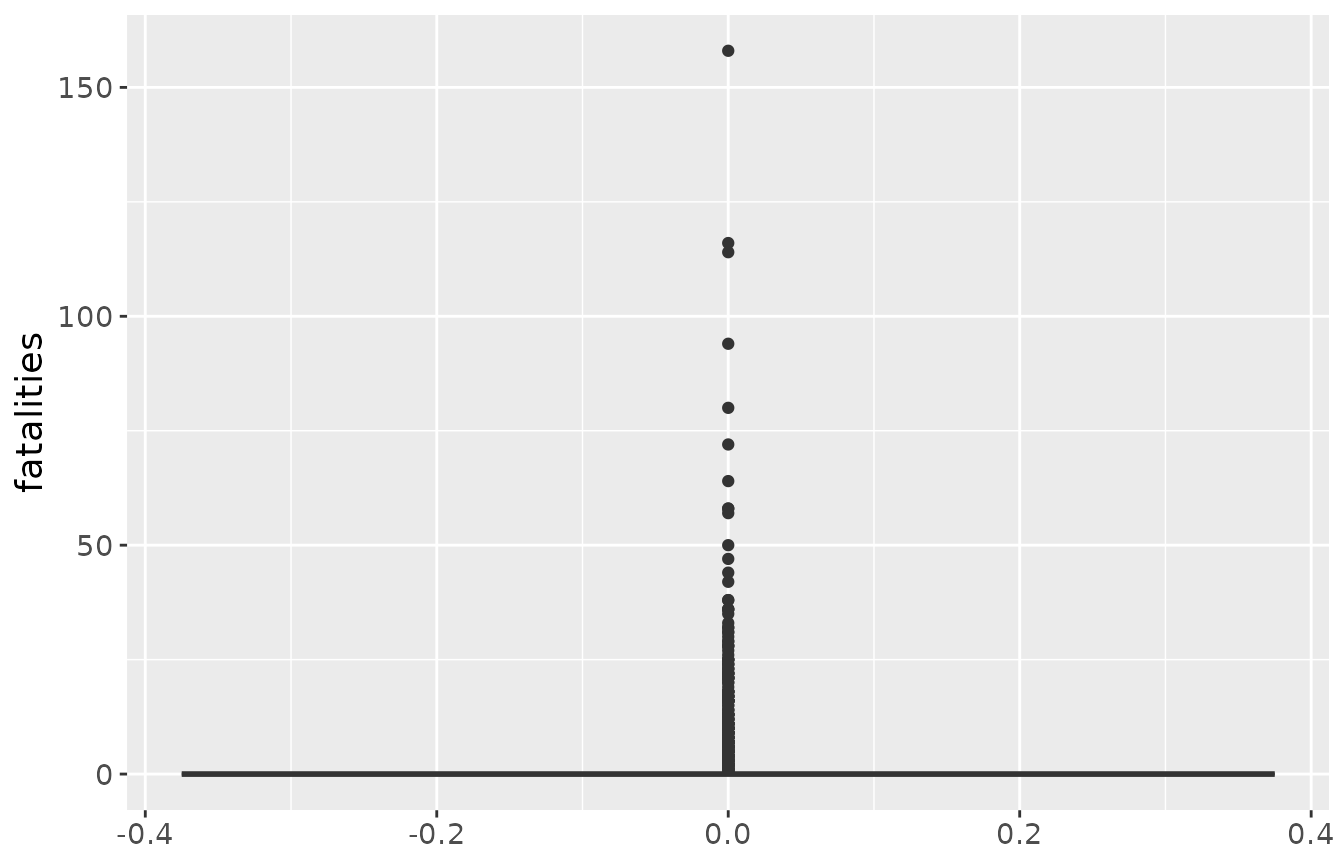
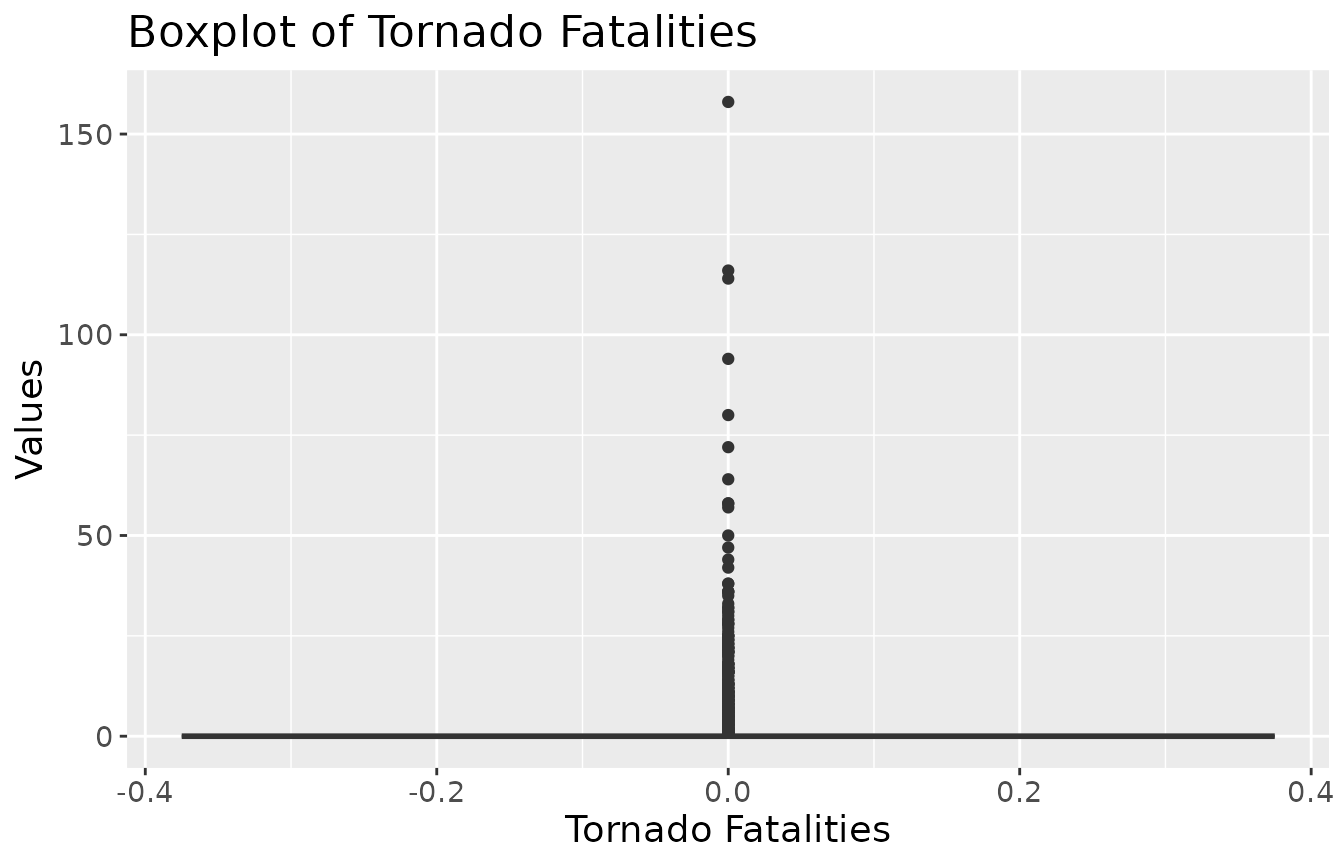
Deploying to gh-pages from @ DSCI-310-2024/predicttornado@7de135e8f3f9f70cc8b5f5b44fd2572e8bd4f1dd 🚀

diff --git a/articles/predicttornado-vignette.html b/articles/predicttornado-vignette.html
@@ -204,7 +204,9 @@ skewed or has outliers. To do this, we can use the function
 <code>boxplot_viz</code> to examine whether our feature of interest,
 <code>fatalities</code>, has outliers.</p>
 <div class="sourceCode" id="cb7"><pre class="downlit sourceCode r">
-<code class="sourceCode R"><span><span class="va">boxplot_data</span> <span class="op">&lt;-</span> <span class="fu"><a href="../reference/boxplot_viz.html">boxplot_viz</a></span><span class="op">(</span><span class="va">clean_data</span>, <span class="va">fatalities</span><span class="op">)</span></span>
+<code class="sourceCode R"><span><span class="va">boxplot_data</span> <span class="op">&lt;-</span> <span class="fu"><a href="../reference/boxplot_viz.html">boxplot_viz</a></span><span class="op">(</span><span class="va">clean_data</span>, <span class="va">fatalities</span><span class="op">)</span> <span class="op">+</span> </span>
+<span>    <span class="fu"><a href="https://ggplot2.tidyverse.org/reference/labs.html" class="external-link">ggtitle</a></span><span class="op">(</span><span class="st">"Boxplot of Tornado Fatalities"</span><span class="op">)</span> <span class="op">+</span></span>
+<span>    <span class="fu"><a href="https://ggplot2.tidyverse.org/reference/labs.html" class="external-link">labs</a></span><span class="op">(</span>x <span class="op">=</span> <span class="st">"Tornado Fatalities"</span>, y <span class="op">=</span> <span class="st">"Values"</span><span class="op">)</span></span>
 <span><span class="va">boxplot_data</span></span></code></pre></div>
 <p><img src="predicttornado-vignette_files/figure-html/boxplots-1.png" width="672"></p>
 <p>The boxplot shows us that there are a few outliers in our data for
